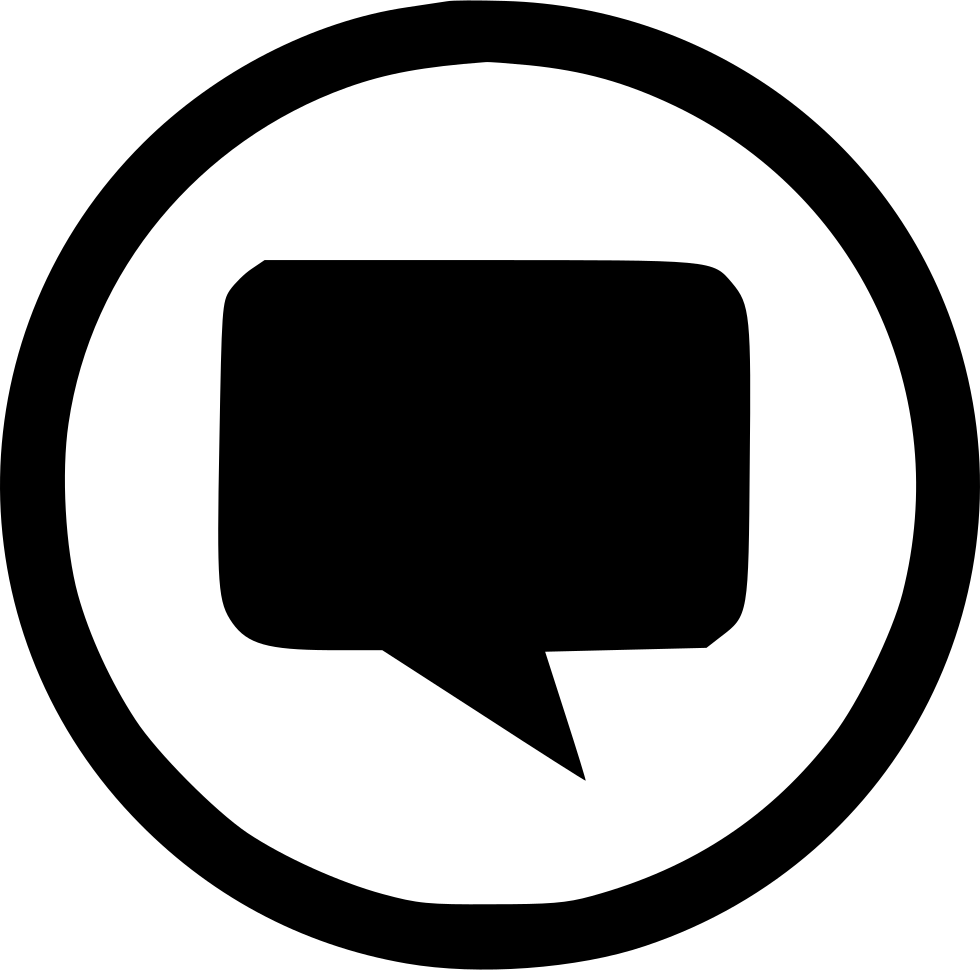
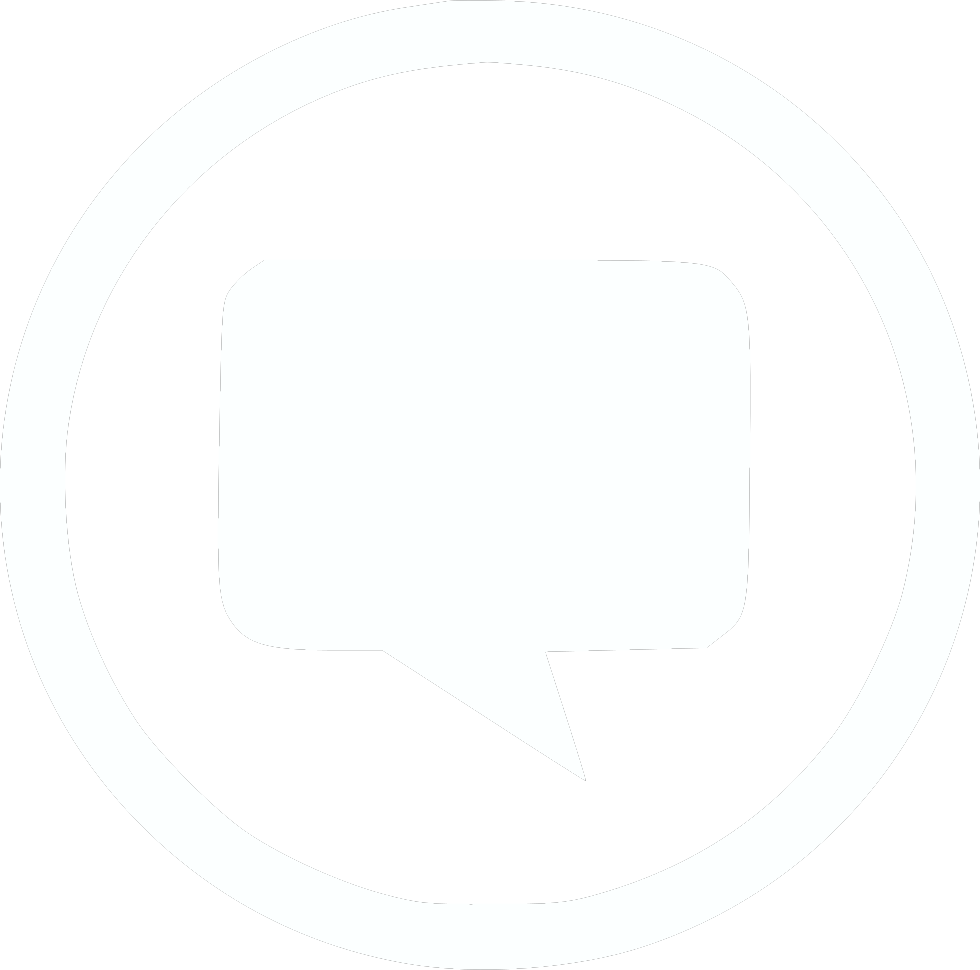
change image color et taille messages

diff --git a/public/message/message.css b/public/message/message.css
@@ -3,8 +3,9 @@
     border-radius:8px 8px 8px 8px;
     padding: .75rem;
     margin: .25em;
-
-    width: 97%;
+    width: 70%;
+    margin-left: auto;
+    margin-right: auto;
     font-size: 50px;
     vertical-align:middle;
     align-items: center;
